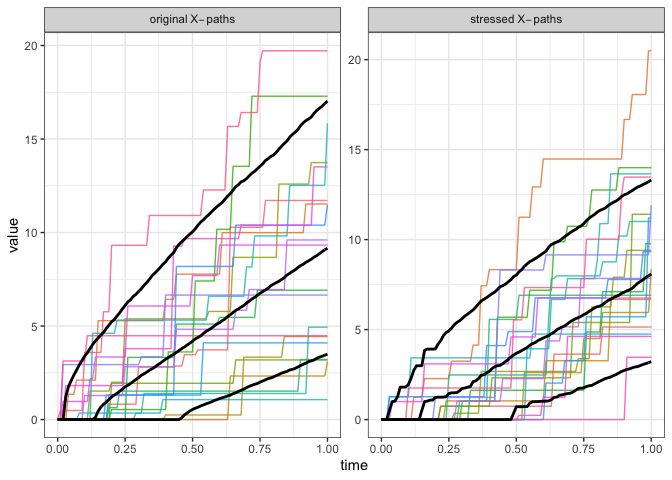
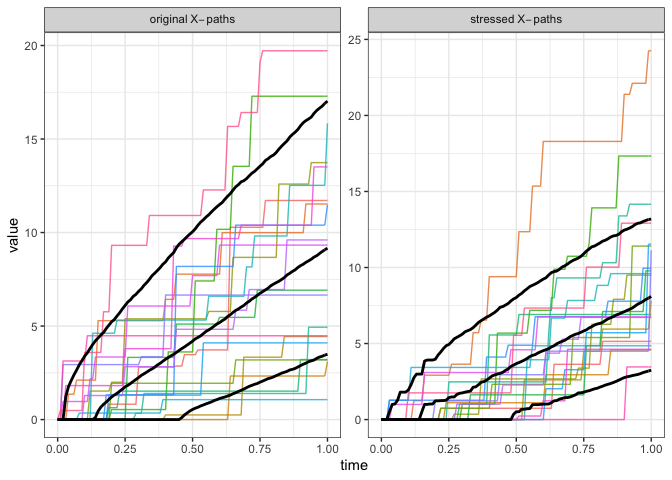
Added CVaR example to README

diff --git a/README.md b/README.md
@@ -44,21 +44,20 @@ gamma_2_1 <- new_RPS_dist(dist_fun = function(x,parms) pgamma(x,shape=parms$alph
                           parms = list(alpha = 2, beta=1)) 
 ```
 
-We decide to stress the 90% VaR of the model down about 20%. this code
-imposes the stress and simulates under the model.
+We decide to stress the 90% VaR of the model down 20%. this code imposes
+the stress and simulates under the model.
 
 ``` r
-# simulate
-gamma_2_1_example <- stressed_sim(kappa = 5, jump_dist = gamma_2_1, 
-                                  stress_type = "VaR",
-                                  stress_parms = list(c=0.9,q=14),
-                                  Npaths=1e4, endtime=1, dt=1e-2)
+ex_gamma_VaR <- stressed_sim(kappa = 5, jump_dist = gamma_2_1, 
+                             stress_type = "VaR",
+                             stress_parms = list(c=0.9,VaR_stress=0.8),
+                             Npaths=1e4, endtime=1, dt=1e-2)
 ```
 
 Here we plot the output of the stressed model.
 
 ``` r
-path_plot(gamma_2_1_example, Npaths=20, quantiles=list(lower=0.1,upper=0.9))
+path_plot(ex_gamma_VaR, Npaths=20, quantiles=list(lower=0.1,upper=0.9))
 ```
 
 <img src="man/figures/README-unnamed-chunk-4-1.png" width="100%" />
@@ -67,7 +66,7 @@ We can also compare the paths under the stressed model to those under
 the baseline model.
 
 ``` r
-path_plot(gamma_2_1_example,
+path_plot(ex_gamma_VaR,
           Npaths = 20,
           quantiles=list(lower=0.1,upper=0.9),
           plot_type = "compare_to_baseline")
@@ -79,9 +78,34 @@ Finally, we can examine how the intensity of the jumps have changed
 under the stressed probability measure.
 
 ``` r
-path_plot(gamma_2_1_example,
+path_plot(ex_gamma_VaR,
           Npaths = 10,
           plot_type = "compare_to_kappa")
 ```
 
 <img src="man/figures/README-unnamed-chunk-6-1.png" width="100%" />
+
+### CVaR constraint
+
+Now we want to impose an additional constraint, corresponding to a 10%
+decrease in CVaR (also known as Expected Shortfall).
+
+``` r
+ex_gamma_CVaR <- stressed_sim(kappa = 5, jump_dist = gamma_2_1,
+                              stress_type = "CVaR", 
+                              stress_parms = list(c=0.9,
+                                                 VaR_stress=0.8,
+                                                 CVaR_stress=0.9),
+                              Npaths=1e4, endtime=1, dt=1e-2)
+```
+
+Here we plot the paths of the stressed model as well as the jump
+intensity over time.
+
+``` r
+path_plot(ex_gamma_CVaR,
+          Npaths = 10,
+          plot_type = "compare_to_kappa")
+```
+
+<img src="man/figures/README-unnamed-chunk-8-1.png" width="100%" />
